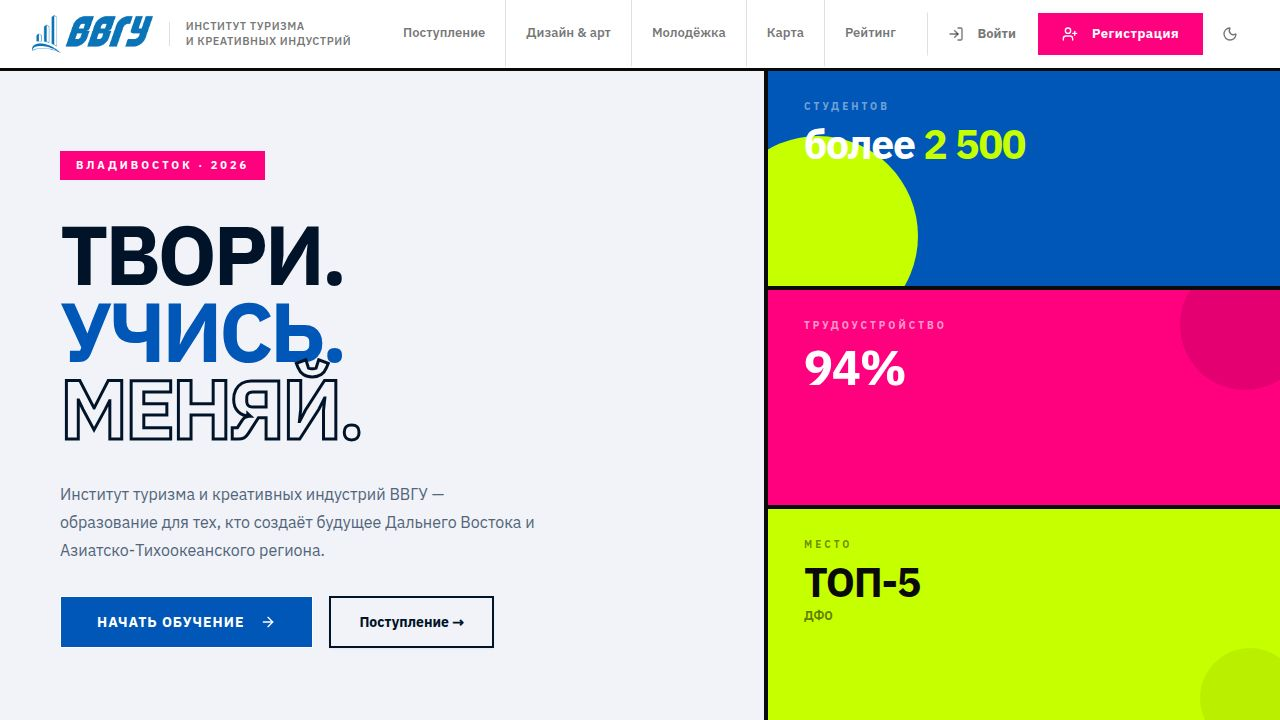
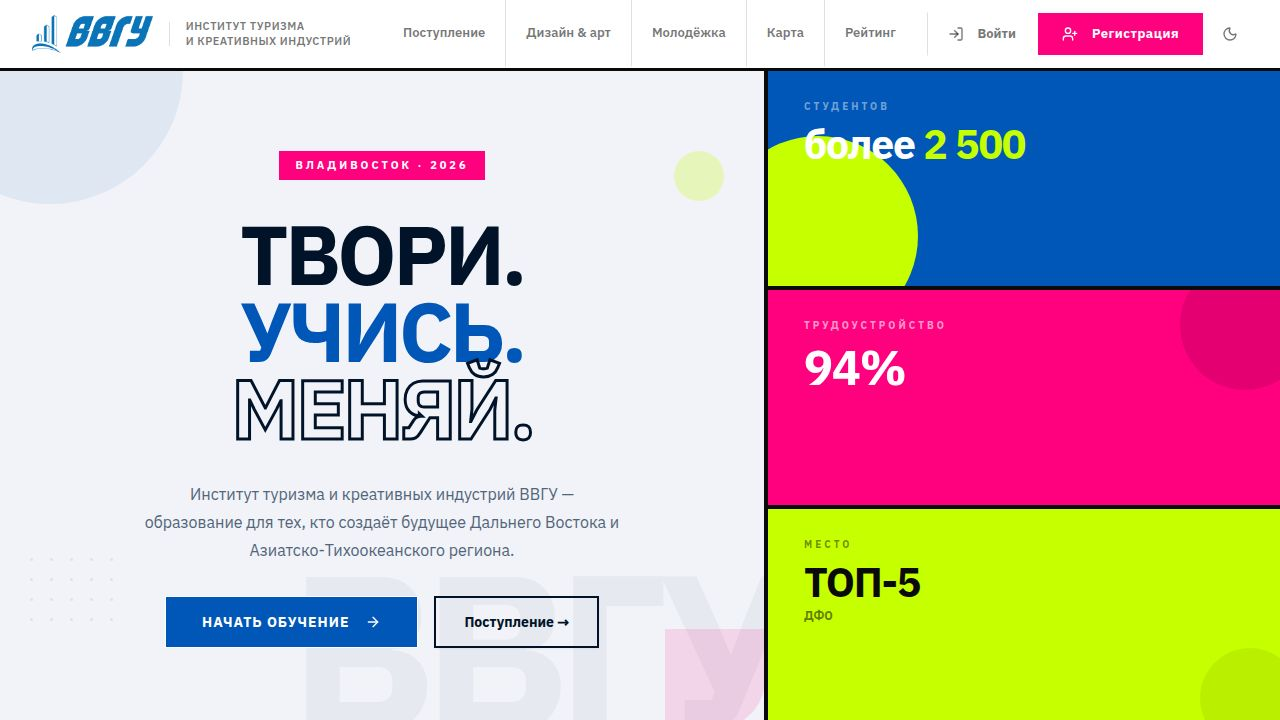
Add geometric graphic accents to all page hero sections
- Created shared GraphicAccents.tsx component with GeoCircle, GhostText, DotGrid, VerticalText
- GeoCircle supports full/half/quarter circle shapes in any brand color + optional pulse animation
- GhostText renders giant bold typography bleeding off edges at low opacity (0.04-0.07)
- DotGrid renders a small dotted grid pattern accent
- All accents use zIndex:0; content wrappers elevated to zIndex:1 to stay above
- Applied accents to all 7 hero sections:
  - home.tsx: blue circle TL + pink quarter-circle BR + lime dot + ВВГУ ghost
  - leaderboard.tsx: ИТКИ ghost + lime full circle + pink quarter TL + blue dot + grid
  - community.tsx: МЛ ghost + pink full circle TR + lime quarter BR + pink dot grid
  - admission.tsx: 2026 ghost + pink full circle BL + lime quarter TR + blue dot + grid
  - map-page.tsx: КАРТА ghost + blue full circle TR + lime quarter BL + grid
  - dashboard.tsx: ВВГУ ghost + orange full circle TR + lime quarter + blue dot + grid
  - design-programs.tsx: ДИЗАЙН ghost + pink full circle TR + lime quarter BL + blue dot + grid
- TypeScript: 0 errors throughout

diff --git a/artifacts/vvsu-tourism/src/components/GraphicAccents.tsx b/artifacts/vvsu-tourism/src/components/GraphicAccents.tsx
@@ -1,0 +1,137 @@
+import { motion } from "framer-motion";
+import type { CSSProperties } from "react";
+
+/** Absolute-positioned geometric circle/half-circle/quarter-circle */
+export function GeoCircle({
+  size, top, left, right, bottom,
+  color, opacity = 1,
+  shape = "full",
+  animate: doAnim = false,
+}: {
+  size: number;
+  top?: number | string; left?: number | string;
+  right?: number | string; bottom?: number | string;
+  color: string; opacity?: number;
+  shape?: "full" | "half-top" | "half-bottom" | "half-left" | "half-right"
+         | "quarter-tl" | "quarter-tr" | "quarter-bl" | "quarter-br";
+  animate?: boolean;
+}) {
+  const borderRadius: Record<typeof shape, string> = {
+    "full":        "50%",
+    "half-top":    "50% 50% 0 0",
+    "half-bottom": "0 0 50% 50%",
+    "half-left":   "50% 0 0 50%",
+    "half-right":  "0 50% 50% 0",
+    "quarter-tl":  "50% 0 0 0",
+    "quarter-tr":  "0 50% 0 0",
+    "quarter-bl":  "0 0 0 50%",
+    "quarter-br":  "0 0 50% 0",
+  };
+
+  const style: CSSProperties = {
+    position: "absolute",
+    width: size,
+    height: size,
+    background: color,
+    opacity,
+    borderRadius: borderRadius[shape],
+    pointerEvents: "none",
+    zIndex: 0,
+    ...(top !== undefined    ? { top }    : {}),
+    ...(left !== undefined   ? { left }   : {}),
+    ...(right !== undefined  ? { right }  : {}),
+    ...(bottom !== undefined ? { bottom } : {}),
+  };
+
+  if (doAnim) {
+    return (
+      <motion.div
+        style={style}
+        animate={{ scale: [1, 1.04, 1] }}
+        transition={{ duration: 6, repeat: Infinity, ease: "easeInOut" }}
+      />
+    );
+  }
+  return <div style={style} />;
+}
+
+/** Giant ghost text overlaid in the background */
+export function GhostText({
+  text, size = 180, color = "#fff", opacity = 0.045,
+  top, left, right, bottom,
+  rotate = 0,
+}: {
+  text: string; size?: number; color?: string; opacity?: number;
+  top?: number | string; left?: number | string;
+  right?: number | string; bottom?: number | string;
+  rotate?: number;
+}) {
+  return (
+    <div style={{
+      position: "absolute", pointerEvents: "none", userSelect: "none",
+      fontWeight: 900, fontSize: size, lineHeight: 1, opacity,
+      color, letterSpacing: "-0.06em", whiteSpace: "nowrap",
+      zIndex: 0,
+      transform: rotate ? `rotate(${rotate}deg)` : undefined,
+      ...(top    !== undefined ? { top }    : {}),
+      ...(left   !== undefined ? { left }   : {}),
+      ...(right  !== undefined ? { right }  : {}),
+      ...(bottom !== undefined ? { bottom } : {}),
+    }}>
+      {text}
+    </div>
+  );
+}
+
+/** Small dot-grid accent */
+export function DotGrid({
+  cols = 6, rows = 4, gap = 10, color = "#fff", opacity = 0.12,
+  top, left, right, bottom,
+}: {
+  cols?: number; rows?: number; gap?: number;
+  color?: string; opacity?: number;
+  top?: number | string; left?: number | string;
+  right?: number | string; bottom?: number | string;
+}) {
+  return (
+    <div style={{
+      position: "absolute", pointerEvents: "none",
+      display: "grid", gridTemplateColumns: `repeat(${cols}, ${gap}px)`,
+      gridTemplateRows: `repeat(${rows}, ${gap}px)`, gap: gap,
+      opacity, zIndex: 0,
+      ...(top    !== undefined ? { top }    : {}),
+      ...(left   !== undefined ? { left }   : {}),
+      ...(right  !== undefined ? { right }  : {}),
+      ...(bottom !== undefined ? { bottom } : {}),
+    }}>
+      {Array.from({ length: cols * rows }).map((_, i) => (
+        <div key={i} style={{ width: 3, height: 3, borderRadius: "50%", background: color }} />
+      ))}
+    </div>
+  );
+}
+
+/** Vertical/diagonal bold text stripe (like "design" rotated 90°) */
+export function VerticalText({
+  text, color = "#fff", opacity = 0.07, size = 11,
+  top, left, right, bottom,
+}: {
+  text: string; color?: string; opacity?: number; size?: number;
+  top?: number | string; left?: number | string;
+  right?: number | string; bottom?: number | string;
+}) {
+  return (
+    <div style={{
+      position: "absolute", pointerEvents: "none", userSelect: "none",
+      fontWeight: 900, fontSize: size, letterSpacing: 4,
+      textTransform: "uppercase", color, opacity,
+      writingMode: "vertical-rl", transform: "rotate(180deg)",
+      ...(top    !== undefined ? { top }    : {}),
+      ...(left   !== undefined ? { left }   : {}),
+      ...(right  !== undefined ? { right }  : {}),
+      ...(bottom !== undefined ? { bottom } : {}),
+    }}>
+      {text}
+    </div>
+  );
+}

diff --git a/artifacts/vvsu-tourism/src/pages/leaderboard.tsx b/artifacts/vvsu-tourism/src/pages/leaderboard.tsx
@@ -5,6 +5,7 @@ import { Badge } from "@/components/ui/badge";
 import { Skeleton } from "@/components/ui/skeleton";
 import { ArrowRight } from "lucide-react";
 import { Link } from "wouter";
+import { GeoCircle, GhostText, DotGrid, VerticalText } from "@/components/GraphicAccents";
 
 const roleLabels: Record<string, string> = {
   guide: "Экскурсовод",
@@ -103,18 +104,23 @@ export default function Leaderboard() {
         <div style={{ display: "grid", gridTemplateColumns: "1fr auto", minHeight: 260, alignItems: "stretch" }}>
           <motion.div initial={{ opacity: 0, y: 20 }} animate={{ opacity: 1, y: 0 }} transition={{ duration: 0.6 }}
             style={{ padding: "48px 48px", borderRight: "3px solid rgba(255,255,255,0.07)", display: "flex", flexDirection: "column", justifyContent: "center", position: "relative", overflow: "hidden" }}>
-            {/* Geometric decoration */}
-            <div style={{ position: "absolute", right: 40, top: 20, width: 80, height: 80, borderRadius: "50%", border: "3px solid rgba(198,255,0,0.15)" }} />
-            <div style={{ position: "absolute", right: 20, bottom: 20, width: 40, height: 40, background: "rgba(255,0,127,0.12)" }} />
-            <div style={{ fontSize: 11, fontWeight: 800, letterSpacing: 4, textTransform: "uppercase", color: "rgba(255,255,255,0.35)", marginBottom: 16 }}>
-              Институт туризма и креативных индустрий · ВВГУ
+            {/* Geometric decorations */}
+            <GhostText text="ИТКИ" size={200} color="#fff" opacity={0.04} bottom={-40} right={-20} />
+            <GeoCircle size={280} color="#C6FF00" opacity={0.08} shape="full" bottom={-140} right={-60} animate />
+            <GeoCircle size={120} color="#FF007F" opacity={0.15} shape="quarter-tl" top={-1} right={-1} />
+            <DotGrid cols={5} rows={3} color="#C6FF00" opacity={0.18} top={24} right={160} />
+            <GeoCircle size={60} color="#0057B8" opacity={0.25} shape="full" top={32} right={80} />
+            <div style={{ position: "relative", zIndex: 1 }}>
+              <div style={{ fontSize: 11, fontWeight: 800, letterSpacing: 4, textTransform: "uppercase", color: "rgba(255,255,255,0.35)", marginBottom: 16 }}>
+                Институт туризма и креативных индустрий · ВВГУ
+              </div>
+              <h1 style={{ fontSize: "clamp(40px,5.5vw,72px)", fontWeight: 900, lineHeight: 1.0, letterSpacing: "-0.04em", color: "#fff", marginBottom: 16 }}>
+                Зал<br /><span style={{ color: "#C6FF00" }}>Славы</span>
+              </h1>
+              <p style={{ color: "rgba(255,255,255,0.5)", fontSize: 15, lineHeight: 1.7, maxWidth: 480 }}>
+                Выполняй квесты, копи XP и обменивай баллы на фирменную атрибутику ВВГУ
+              </p>
             </div>
-            <h1 style={{ fontSize: "clamp(40px,5.5vw,72px)", fontWeight: 900, lineHeight: 1.0, letterSpacing: "-0.04em", color: "#fff", marginBottom: 16 }}>
-              Зал<br /><span style={{ color: "#C6FF00" }}>Славы</span>
-            </h1>
-            <p style={{ color: "rgba(255,255,255,0.5)", fontSize: 15, lineHeight: 1.7, maxWidth: 480 }}>
-              Выполняй квесты, копи XP и обменивай баллы на фирменную атрибутику ВВГУ
-            </p>
           </motion.div>
           {/* Right: stat cells */}
           <div style={{ display: "grid", gridTemplateRows: "1fr 1fr 1fr", minWidth: 200 }}>

diff --git a/artifacts/vvsu-tourism/src/pages/home.tsx b/artifacts/vvsu-tourism/src/pages/home.tsx
@@ -1,4 +1,5 @@
 import { useState, useEffect } from "react";
+import { GeoCircle, GhostText, DotGrid } from "@/components/GraphicAccents";
 import { CatMascot } from "@/components/illustrations/CatMascot";
 import { Link } from "wouter";
 import { motion, useMotionValue, useTransform } from "framer-motion";
@@ -525,9 +526,15 @@ export default function Home() {
         <motion.div
           initial={{ opacity: 0, y: 24 }} animate={{ opacity: 1, y: 0 }} transition={{ duration: 0.7, ease: "easeOut" }}
           className="flex flex-col justify-center items-center"
-          style={{ background: "var(--color-background)", padding: "80px 60px", borderRight: "4px solid #0A0A0A", gap: 32, textAlign: "center" }}
+          style={{ background: "var(--color-background)", padding: "80px 60px", borderRight: "4px solid #0A0A0A", gap: 32, textAlign: "center", position: "relative", overflow: "hidden" }}
         >
-          <div>
+          {/* Graphic accents */}
+          <GhostText text="ВВГУ" size={220} color="var(--color-foreground)" opacity={0.04} bottom={-30} right={-20} />
+          <GeoCircle size={260} color="#0057B8" opacity={0.08} shape="full" top={-130} left={-80} animate />
+          <GeoCircle size={100} color="#FF007F" opacity={0.12} shape="quarter-br" bottom={-1} right={-1} />
+          <GeoCircle size={50} color="#C6FF00" opacity={0.25} shape="full" top={80} right={40} />
+          <DotGrid cols={5} rows={4} color="var(--color-foreground)" opacity={0.07} bottom={100} left={30} />
+          <div style={{ position: "relative", zIndex: 1 }}>
             <div style={{
               display: "inline-block", background: "#FF007F", color: "#fff",
               fontWeight: 800, fontSize: 11, letterSpacing: 3, textTransform: "uppercase",
@@ -548,11 +555,11 @@ export default function Home() {
               }}>МЕНЯЙ.</span>
             </h1>
           </div>
-          <p style={{ color: "hsl(var(--muted-foreground))", fontSize: 16, lineHeight: 1.75, maxWidth: 480, margin: 0 }}>
+          <p style={{ color: "hsl(var(--muted-foreground))", fontSize: 16, lineHeight: 1.75, maxWidth: 480, margin: 0, position: "relative", zIndex: 1 }}>
             Институт туризма и креативных индустрий ВВГУ — образование для тех,
             кто создаёт будущее Дальнего Востока и Азиатско-Тихоокеанского региона.
           </p>
-          <div style={{ display: "flex", gap: 16, flexWrap: "wrap" }}>
+          <div style={{ display: "flex", gap: 16, flexWrap: "wrap", position: "relative", zIndex: 1 }}>
             <Button asChild size="lg" style={{
               background: "#0057B8", color: "#fff", borderRadius: 0,
               padding: "0 36px", height: 52, fontWeight: 800, fontSize: 14,

diff --git a/artifacts/vvsu-tourism/src/pages/admission.tsx b/artifacts/vvsu-tourism/src/pages/admission.tsx
@@ -1,4 +1,5 @@
 import { useState } from "react";
+import { GeoCircle, GhostText, DotGrid, VerticalText } from "@/components/GraphicAccents";
 import { DigitalDesignIllustration, EnvironmentDesignIllustration } from "@/components/illustrations/DesignIllustrations";
 import { Link } from "wouter";
 import { motion } from "framer-motion";
@@ -141,8 +142,14 @@ export default function AdmissionPage() {
         {/* Hero content */}
         <div style={{ display: "grid", gridTemplateColumns: "1fr auto", gap: 0, minHeight: 340, alignItems: "stretch" }}>
           <motion.div initial={{ opacity: 0, y: 20 }} animate={{ opacity: 1, y: 0 }} transition={{ duration: 0.6 }}
-            style={{ padding: "56px 48px", borderRight: "3px solid rgba(255,255,255,0.07)", display: "flex", flexDirection: "column", justifyContent: "space-between" }}>
-            <div>
+            style={{ padding: "56px 48px", borderRight: "3px solid rgba(255,255,255,0.07)", display: "flex", flexDirection: "column", justifyContent: "space-between", position: "relative", overflow: "hidden" }}>
+            {/* Graphic accents */}
+            <GhostText text="2026" size={180} color="#FF007F" opacity={0.07} bottom={-20} right={40} />
+            <GeoCircle size={320} color="#FF007F" opacity={0.07} shape="full" bottom={-160} left={-80} animate />
+            <GeoCircle size={100} color="#C6FF00" opacity={0.18} shape="quarter-tr" top={-1} right={-1} />
+            <GeoCircle size={50} color="#0057B8" opacity={0.3} shape="full" top={50} right={120} />
+            <DotGrid cols={6} rows={4} color="#fff" opacity={0.1} bottom={80} right={40} />
+            <div style={{ position: "relative", zIndex: 1 }}>
               <div style={{ fontSize: 11, fontWeight: 800, letterSpacing: 4, textTransform: "uppercase", color: "rgba(255,255,255,0.35)", marginBottom: 20 }}>Институт туризма и креативных индустрий · ВВГУ</div>
               <h1 style={{ fontSize: "clamp(44px,6vw,80px)", fontWeight: 900, lineHeight: 1.0, letterSpacing: "-0.04em", color: "#fff", marginBottom: 20 }}>
                 Поступление<br /><span style={{ color: "#FF007F" }}>2026</span>
@@ -151,7 +158,7 @@ export default function AdmissionPage() {
                 Начните своё путешествие в мир туризма, гостеприимства и творческих индустрий. Мы ждём вас в ВВГУ!
               </p>
             </div>
-            <div style={{ display: "flex", flexWrap: "wrap", gap: 8, marginTop: 32 }}>
+            <div style={{ display: "flex", flexWrap: "wrap", gap: 8, marginTop: 32, position: "relative", zIndex: 1 }}>
               <a href="https://www.vvsu.ru/about/flagship-educational-programs/" target="_blank" rel="noopener noreferrer"
                 style={{ display: "inline-flex", alignItems: "center", gap: 8, padding: "14px 28px", background: "#FF007F", color: "#fff", fontSize: 13, fontWeight: 900, textDecoration: "none", letterSpacing: 1, textTransform: "uppercase" }}>
                 <Play style={{ width: 14, height: 14 }} /> Флагманские программы <ExternalLink style={{ width: 13, height: 13 }} />

diff --git a/artifacts/vvsu-tourism/src/pages/community.tsx b/artifacts/vvsu-tourism/src/pages/community.tsx
@@ -1,6 +1,7 @@
 import { useState, useEffect } from "react";
 import { Link } from "wouter";
 import { motion, AnimatePresence } from "framer-motion";
+import { GeoCircle, GhostText, DotGrid, VerticalText } from "@/components/GraphicAccents";
 import {
   useListCommunityPosts,
   useCreateCommunityPost,
@@ -257,11 +258,16 @@ export default function Community() {
         </div>
         {/* Hero title + photo strip */}
         <div style={{ display: "grid", gridTemplateColumns: "auto 1fr", alignItems: "stretch" }}>
-          <div style={{ padding: "36px 40px", borderRight: "3px solid rgba(255,255,255,0.07)", display: "flex", flexDirection: "column", justifyContent: "center", minWidth: 280 }}>
-            <h1 style={{ fontSize: "clamp(40px,5vw,64px)", fontWeight: 900, lineHeight: 1.0, letterSpacing: "-0.04em", color: "#fff", marginBottom: 12 }}>
+          <div style={{ padding: "36px 40px", borderRight: "3px solid rgba(255,255,255,0.07)", display: "flex", flexDirection: "column", justifyContent: "center", minWidth: 280, position: "relative", overflow: "hidden" }}>
+            {/* Graphic accents */}
+            <GhostText text="МЛ" size={220} color="#fff" opacity={0.04} bottom={-60} right={-30} />
+            <GeoCircle size={200} color="#FF007F" opacity={0.12} shape="full" top={-100} right={-80} animate />
+            <GeoCircle size={80} color="#C6FF00" opacity={0.2} shape="quarter-br" bottom={-1} left={-1} />
+            <DotGrid cols={4} rows={3} color="#FF007F" opacity={0.2} top={20} right={20} />
+            <h1 style={{ fontSize: "clamp(40px,5vw,64px)", fontWeight: 900, lineHeight: 1.0, letterSpacing: "-0.04em", color: "#fff", marginBottom: 12, position: "relative", zIndex: 1 }}>
               Молодёжка
             </h1>
-            <p style={{ color: "rgba(255,255,255,0.45)", fontSize: 14, lineHeight: 1.6 }}>
+            <p style={{ color: "rgba(255,255,255,0.45)", fontSize: 14, lineHeight: 1.6, position: "relative", zIndex: 1 }}>
               Делитесь опытом, обсуждайте<br />проекты и вдохновляйтесь
             </p>
           </div>

diff --git a/artifacts/vvsu-tourism/src/pages/map-page.tsx b/artifacts/vvsu-tourism/src/pages/map-page.tsx
@@ -1,4 +1,5 @@
 import { useState, useMemo } from "react";
+import { GeoCircle, GhostText, DotGrid } from "@/components/GraphicAccents";
 import { motion } from "framer-motion";
 import { YMaps, Map, Placemark, Polyline } from "react-yandex-maps";
 import { useListMapPoints, useListMapRoutes } from "@workspace/api-client-react";
@@ -123,11 +124,16 @@ export default function MapPage() {
             </div>
           </div>
           {/* Content row */}
-          <div style={{ display: "flex", alignItems: "center", gap: 24, padding: "28px 32px" }}>
-            <motion.div animate={{ rotate: [0, 360] }} transition={{ duration: 20, repeat: Infinity, ease: "linear" }} style={{ flexShrink: 0 }}>
+          <div style={{ display: "flex", alignItems: "center", gap: 24, padding: "28px 32px", position: "relative", overflow: "hidden" }}>
+            {/* Graphic accents */}
+            <GhostText text="КАРТА" size={160} color="#C6FF00" opacity={0.06} bottom={-30} right={20} />
+            <GeoCircle size={240} color="#0057B8" opacity={0.1} shape="full" top={-120} right={-40} animate />
+            <GeoCircle size={90} color="#C6FF00" opacity={0.2} shape="quarter-bl" bottom={-1} right={80} />
+            <DotGrid cols={5} rows={3} color="#C6FF00" opacity={0.15} top={16} right={200} />
+            <motion.div animate={{ rotate: [0, 360] }} transition={{ duration: 20, repeat: Infinity, ease: "linear" }} style={{ flexShrink: 0, position: "relative", zIndex: 1 }}>
               <span style={{ fontSize: 48, color: "#C6FF00", display: "block", lineHeight: 1 }}>⚓</span>
             </motion.div>
-            <div>
+            <div style={{ position: "relative", zIndex: 1 }}>
               <h1 style={{ fontSize: "clamp(28px,4vw,48px)", fontWeight: 900, lineHeight: 1.0, letterSpacing: "-0.04em", color: "#fff", marginBottom: 8 }}>
                 Карта <span style={{ color: "#C6FF00" }}>Владивостока</span>
               </h1>

diff --git a/artifacts/vvsu-tourism/src/pages/dashboard.tsx b/artifacts/vvsu-tourism/src/pages/dashboard.tsx
@@ -1,4 +1,5 @@
 import { useEffect, useState } from "react";
+import { GeoCircle, GhostText, DotGrid } from "@/components/GraphicAccents";
 import { Link, useSearch } from "wouter";
 import { motion } from "framer-motion";
 import {
@@ -1408,7 +1409,14 @@ export default function Dashboard() {
           <span style={{ fontWeight: 700, fontSize: 11, letterSpacing: 2, color: "rgba(255,255,255,0.3)", textTransform: "uppercase" }}>→ ВВГУ · ИТИКИ</span>
         </div>
 
-        <div className="relative max-w-7xl mx-auto px-4 py-8 md:py-10">
+        <div className="relative max-w-7xl mx-auto px-4 py-8 md:py-10" style={{ overflow: "hidden" }}>
+          {/* Graphic accents */}
+          <GhostText text="ВВГУ" size={220} color="#EB7124" opacity={0.05} bottom={-40} right={-10} />
+          <GeoCircle size={350} color="#EB7124" opacity={0.06} shape="full" top={-175} right={-80} animate />
+          <GeoCircle size={100} color="#C6FF00" opacity={0.15} shape="quarter-br" bottom={-1} left={100} />
+          <GeoCircle size={60} color="#0057B8" opacity={0.25} shape="full" bottom={30} left={60} />
+          <DotGrid cols={7} rows={4} color="#fff" opacity={0.08} top={20} right={0} />
+          <div style={{ position: "relative", zIndex: 1 }}>
           {profileLoading ? (
             <div className="flex gap-5 items-center">
               <Skeleton className="h-24 w-24 rounded-full bg-white/10" />
@@ -1505,6 +1513,7 @@ export default function Dashboard() {
               </div>
             </motion.div>
           ) : null}
+          </div>
         </div>
       </div>
 

diff --git a/artifacts/vvsu-tourism/src/pages/design-programs.tsx b/artifacts/vvsu-tourism/src/pages/design-programs.tsx
@@ -1,4 +1,5 @@
 import { useState, useRef } from "react";
+import { GeoCircle, GhostText, DotGrid, VerticalText } from "@/components/GraphicAccents";
 import { motion } from "framer-motion";
 import { Link } from "wouter";
 import { Card, CardContent } from "@/components/ui/card";
@@ -218,8 +219,14 @@ export default function DesignProgramsPage() {
         </div>
         {/* Hero content */}
         <div style={{ display: "grid", gridTemplateColumns: "1fr auto", minHeight: 320, alignItems: "stretch" }}>
-          <div className="max-w-6xl px-12 py-14">
-            <motion.div initial={{ opacity: 0, y: -20 }} animate={{ opacity: 1, y: 0 }}>
+          <div className="max-w-6xl px-12 py-14" style={{ position: "relative", overflow: "hidden" }}>
+            {/* Graphic accents */}
+            <GhostText text="ДИЗАЙН" size={160} color="#FF007F" opacity={0.06} bottom={-20} right={-40} />
+            <GeoCircle size={300} color="#FF007F" opacity={0.07} shape="full" top={-150} right={-60} animate />
+            <GeoCircle size={110} color="#C6FF00" opacity={0.18} shape="quarter-bl" bottom={-1} left={-1} />
+            <GeoCircle size={55} color="#0057B8" opacity={0.28} shape="full" top={60} right={220} />
+            <DotGrid cols={5} rows={4} color="#fff" opacity={0.1} top={20} right={80} />
+            <motion.div initial={{ opacity: 0, y: -20 }} animate={{ opacity: 1, y: 0 }} style={{ position: "relative", zIndex: 1 }}>
               <div style={{ fontSize: 11, fontWeight: 800, letterSpacing: 4, textTransform: "uppercase", color: "rgba(255,255,255,0.3)", marginBottom: 20 }}>Кафедра дизайна и технологий · Кафедра архитектуры</div>
               <h1 style={{ fontSize: "clamp(40px,5.5vw,72px)", fontWeight: 900, lineHeight: 1.0, letterSpacing: "-0.04em", color: "#fff", marginBottom: 20 }}>
                 Дизайн,<br />архитектура<br /><span style={{ color: "#FF007F" }}>и технологии</span>